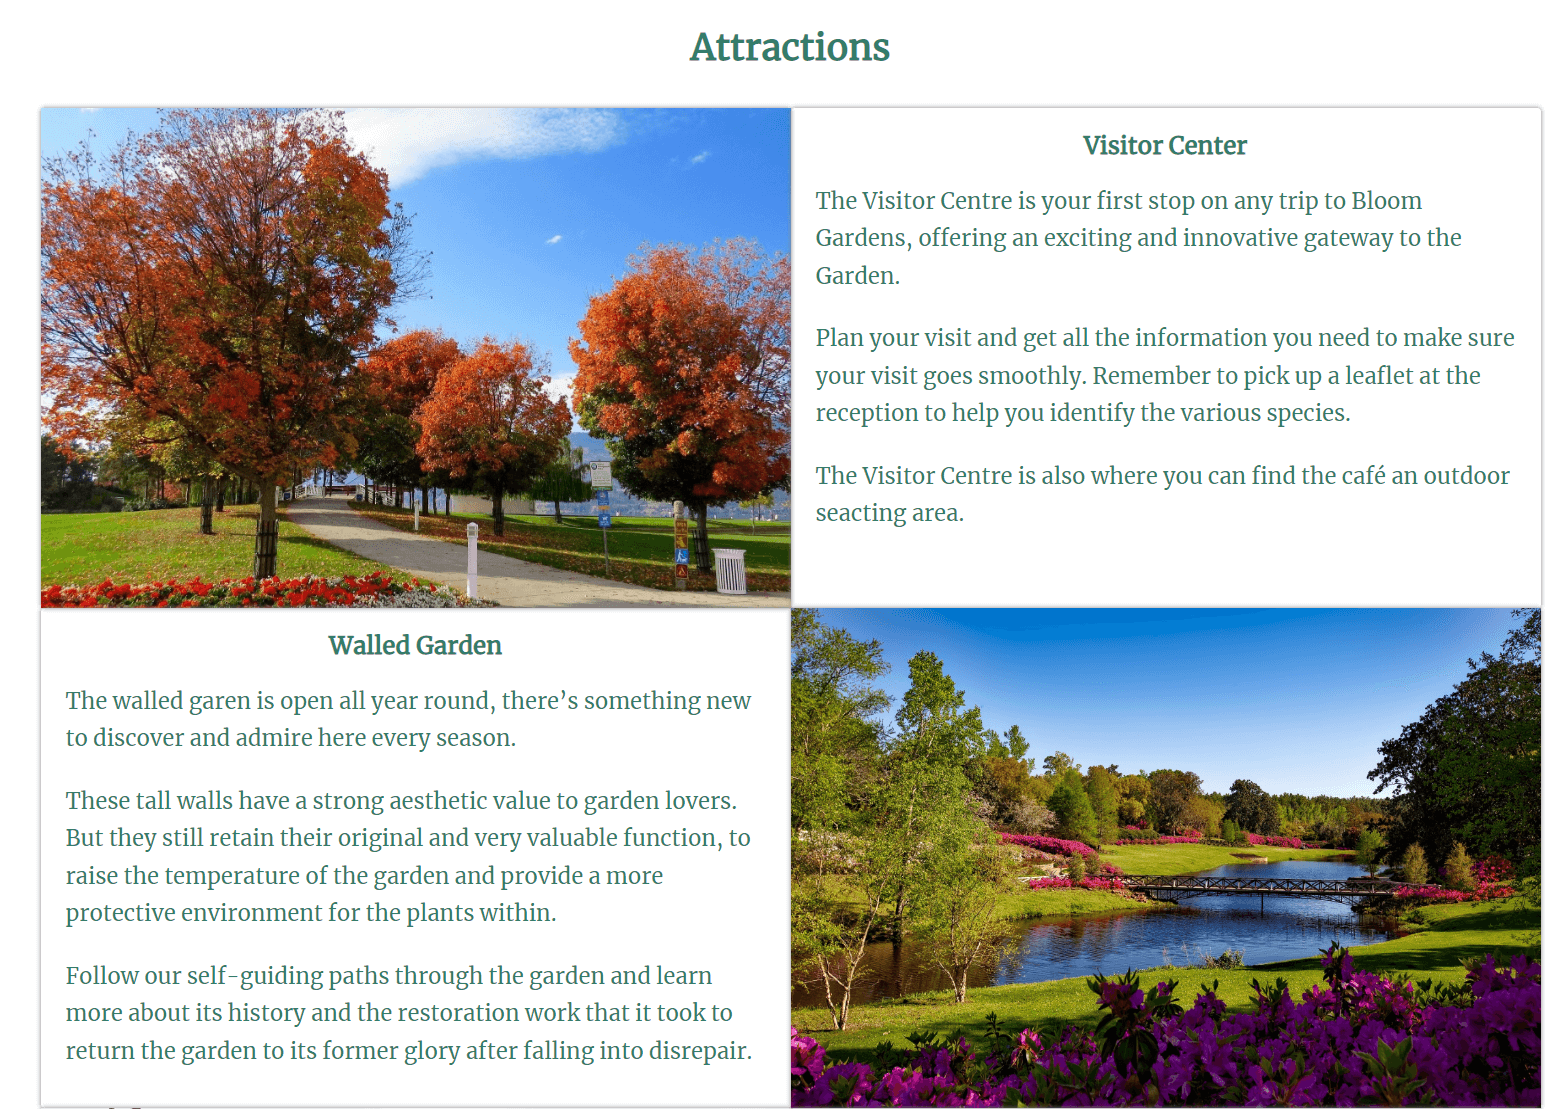
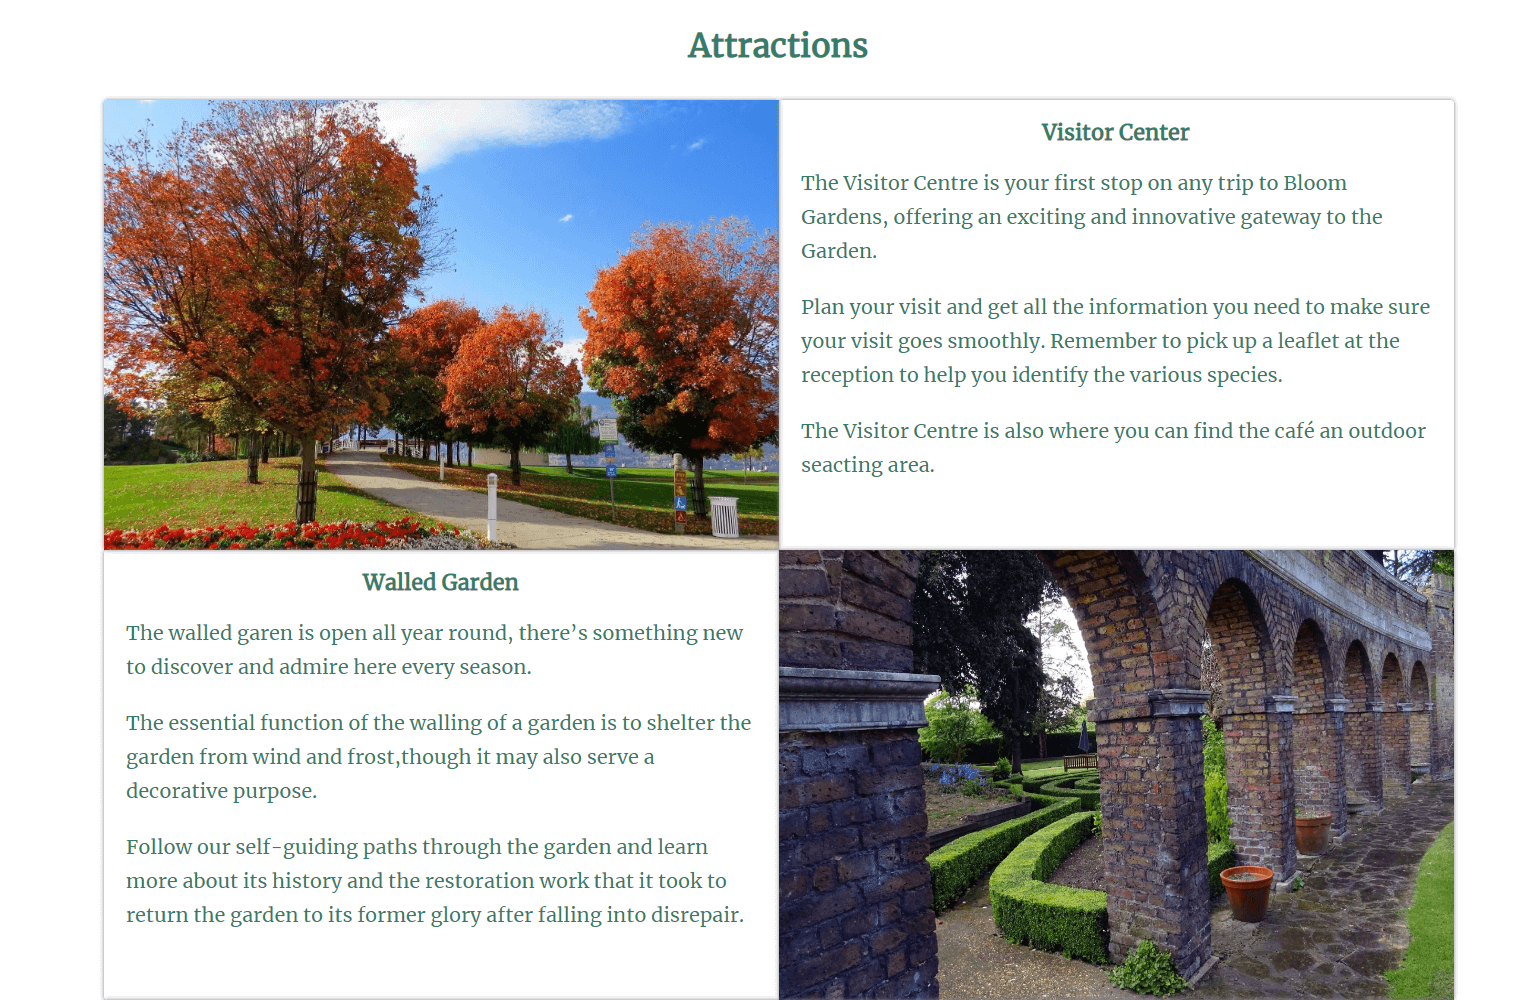
update README.md attractions screenshot

diff --git a/attractions.html b/attractions.html
@@ -69,7 +69,7 @@
         <p>
             The walled garen is open all year round, there’s something new to discover and admire here every season. 
         </p>
-        <p>These tall walls have a strong aesthetic value to garden lovers. But they still retain their original and very valuable function, to raise the temperature of the garden and provide a more protective environment for the plants within.
+        <p>The essential function of the walling of a garden is to shelter the garden from wind and frost,though it may also serve a decorative purpose.
         </p>
         <p>Follow our self-guiding paths through the garden and learn more about its history and the restoration work that it took to return the garden to its former glory after falling into disrepair.
         </p>

diff --git a/README.md b/README.md
@@ -73,3 +73,4 @@ The site was deployed to GitHub pages. The steps to deploy are as follows
     * The code to make the CSS flexbox was taken from [CSS-tricks.com](https://css-tricks.com/snippets/css/a-guide-to-flexbox/ "CSS-tricks" )
     * The code to make the CSS Grid was taken from [CSS-tricks.com](https://css-tricks.com/snippets/css/complete-guide-grid/ "CSS-tricks")
     * instructions through-out project was taken from [Code Institute](https://codeinstitute.net/ie/ "Code Institute") Tutorials and Love Running project.
+    * Desription of walled garden in Attractions sections from [Wikipedia ](https://en.wikipedia.org/wiki/Walled_garden "Wikipedia")
